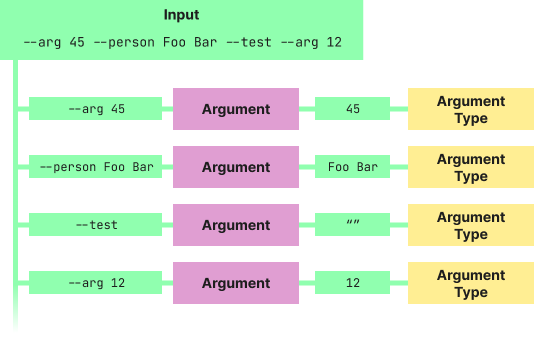
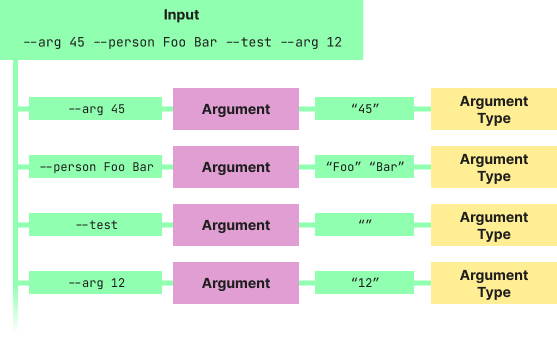
add more parsing process info and stuff about templates

diff --git a/Lanat/topics/Argument-Type-parsing-process.md b/Lanat/topics/Argument-Type-parsing-process.md
@@ -4,7 +4,7 @@ Let's take a look at how the parsing process works in Lanat with argument types.
 
 Here's a regular command structure with 4 arguments:
 
-![structure.png](structure.png)
+![Command Structure](structure.png)
 
 
 ## Parsing pipeline
@@ -16,7 +16,7 @@ on each argument to the proper sub-parsers, which are the argument types.
 
 An argument may appear more than once in the input, and each time it appears, the argument type will receive the values.
 
-![pipeline1.png](pipeline1.png)
+![Initial reception of the input values](pipeline1.png)
 
 The "sanitized" values that you can see between the Argument and Argument Type nodes are the values that the argument
 type instance will receive in the parameter of its `parseValues` method.
@@ -24,4 +24,27 @@ type instance will receive in the parameter of its `parseValues` method.
 
 ### Error collection
 
-![errorcollection.png](errorcollection.png)
+When parsing the values received, the argument type may encounter errors with the input. These errors are collected and
+later shown to the user in a formatted form.
+
+![Error collection](errorcollection.png)
+
+It is important to note that not only argument types can throw errors. For instance, when the input is first tokenized,
+any syntax errors will be thrown by the tokenizer and collected as well.
+
+> The parsing process can never begin if the tokenization failed, as the input is not valid.
+> {style="note"}
+
+When parsing, there are some other kind of errors that can be thrown by the parser, such as when the user provides
+an incorrect number of values for an argument type. If this occurs, that argument type will never receive the values
+that caused the error, and the error will be collected and shown to the user.
+
+The Lanat parser provides the **extra layer of input sanitization** that the argument types don't need to worry about.
+
+
+### Final values reception
+
+Once all tokens are parsed, it is time to collect the final values from the argument types. The argument types at this
+point likely have already parsed values.
+
+![Final values reception](pipeline2.png)

diff --git a/Lanat/topics/Command-template-Inheritance.md b/Lanat/topics/Command-template-Inheritance.md
@@ -1,0 +1,57 @@
+# Command Template Inheritance
+
+As previously mentioned, a command template must always inherit from `CommandTemplate`. However, it must be noted that
+a class can inherit from any other class as long as in the end of the inheritance chain there is a class that extends
+`CommandTemplate`. This can be useful for creating more "generic" command templates that **can be used as a base** for other
+command templates.
+
+
+### Example
+
+Here's a command template that just defines a command with two arguments, related to a user:
+
+```Java
+@Command.Define
+class UserCommand extends CommandTemplate {
+	@Argument.Define
+	public String userName;
+	
+	@Argument.Define
+	public int email;
+}
+```
+
+We can now create a brand new command template that inherits from ``UserCommand`` and adds a new argument to it:
+
+```Java
+@Command.Define
+class StudentCommand extends UserCommand {
+	@Argument.Define
+	public String favoriteSubject;
+}
+```
+
+The `StudentCommand` class now has all the arguments that `UserCommand` has, plus a new one.
+
+> **Remember** that this is still just a template. This is different from creating sub-commands.
+> {style="note"}
+
+
+## Default command templates
+
+Lanat provides a few default command templates that you can inherit from;
+
+### ``CommandTemplate.Default``
+
+Very common command template as it adds the ``help`` and ``version`` arguments to the command.
+This essentially just calls ``Command#addHelpArgument`` and ``Command#addVersionArgument`` in the ``after`` method.
+
+Since these arguments are added **only** in the ``afterInit`` method, they can not be accessed directly in the instance
+of the class.
+
+### ``CommandTemplate.Default.WithVerbose``
+
+Inherits from ``CommandTemplate.Default`` and adds a ``verbose`` argument to the command as well.
+
+The ``verbose``/`v` argument has a type of `CounterArgumentType`, which means that it can be used multiple times to increase
+the verbosity of the command.

diff --git a/Lanat/topics/Command-Templates.md b/Lanat/topics/Command-Templates.md
@@ -15,7 +15,7 @@ See more about defining a command [here](Commands.md#define-a-command-template).
 ## The `@Command.Define` annotation
 
 Values may be provided to the annotation to specify the names and description of the command.
-If no name is provided, the name of the class will be used as the name of the command.
+If no name is provided, the name of the class will be used instead.
 
 The description is also optional, and it will be used to provide a summary of the purpose of the command in the
 help message.
@@ -137,6 +137,27 @@ class MyCommand extends CommandTemplate {
 ```
 
 
+## The ``@CommandAccessor`` annotation
+
+This annotation is used to specify a property that will hold an instance of a sub-command once it is parsed.
+
+```Java
+@Command.Define
+class MyCommand extends CommandTemplate {
+	@CommandAccessor
+	public SubCommand subCmd;
+	
+	@Command.Define
+	public static class SubCommand extends CommandTemplate { }
+}
+```
+
+Once ``SubCommand`` is instantiated by Lanat, it will be automatically assigned to the ``subCmd`` property of
+``MyCommand`` upon instantiation. This will later allow you to access the inner command's properties.
+
+> If there is a sub-command template class defined inside another template class, but there's no property annotated
+> with ``@CommandAccessor`` in the outer class, a ``CommandTemplateException`` will be thrown.
+> {style="warning"}
 
 
 <seealso>
